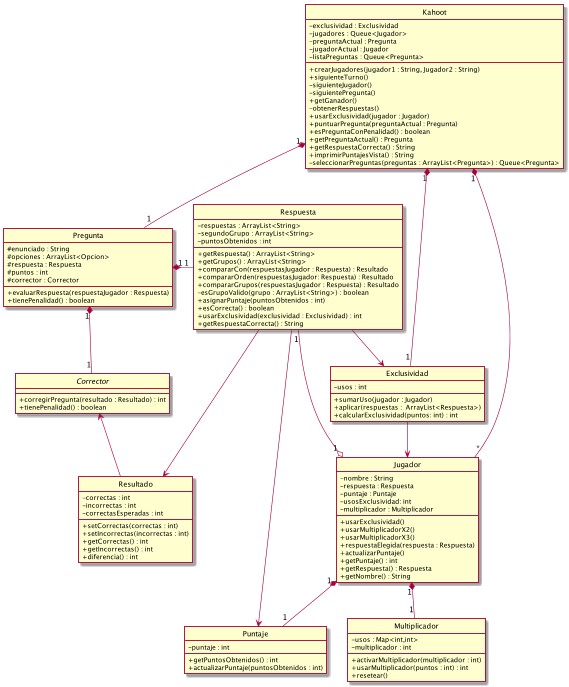
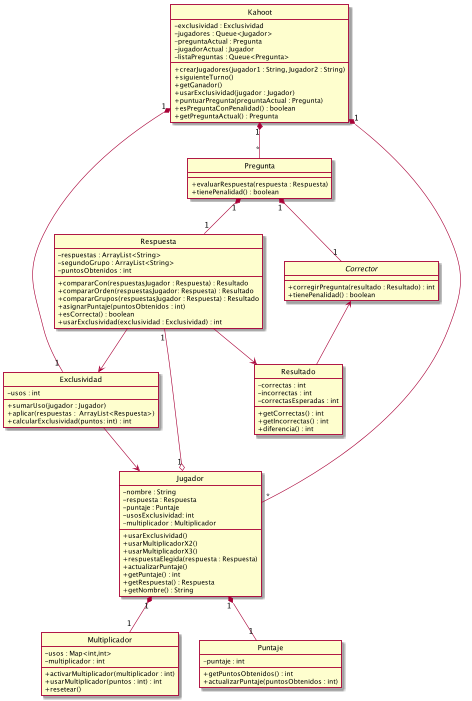
docs Corrijo diagrama Clases y agrego contorno al presionar grupos

diff --git a/src/main/java/edu/fiuba/algo3/Controladores/ControladorPregunta.java b/src/main/java/edu/fiuba/algo3/Controladores/ControladorPregunta.java
@@ -15,6 +15,7 @@ public abstract class ControladorPregunta {
     protected ArrayList<String> opciones;
     protected Respuesta respuestaCorrecta;
     protected ArrayList<Button> botonesOpciones;
+    protected ArrayList<Button> botonesActivos = new ArrayList<>();
     protected Kahoot kahoot;
     protected ArrayList<String> respuestaJugador = new ArrayList<>();
 
@@ -30,7 +31,7 @@ public abstract class ControladorPregunta {
         }
         else {
             respuestaJugador.add(textoOpcion);
-            botonOpcion.setStyle("-fx-border-color: #5eba46; -fx-border-width: 5px;");
+            this.activarBoton(botonOpcion);
         }
     }
 
@@ -69,17 +70,36 @@ public abstract class ControladorPregunta {
         return respuesta;
     }
 
-    public void activarMultiplicadorx2() {
+    public void activarMultiplicadorx2(Button boton) {
+        if (this.tieneUtilizableActivo()){
+            Ventana.mostrarMensajeError("Error", "Ya tiene un multiplicador activo");
+            return;
+        }
         try {
             kahoot.getJugadorActual().activarMultiplicadorx2();
+            this.activarBoton(boton);
         } catch (NoTieneMultiplicadorException e) {
             Ventana.mostrarMensajeError("Error", "La cagaste y no tienes multiplicador");
         }
     }
 
-    public void activarMultiplicadorx3() {
+    private boolean tieneUtilizableActivo() {
+        return !this.botonesActivos.isEmpty();
+    }
+
+    public void activarBoton(Button boton) {
+        this.botonesActivos.add(boton);
+        boton.setStyle("-fx-border-color: #5eba46; -fx-border-width: 2px;");
+    }
+
+    public void activarMultiplicadorx3(Button boton) {
+        if (this.tieneUtilizableActivo()){
+            Ventana.mostrarMensajeError("Error", "Ya tiene un multiplicador activo");
+            return;
+        }
         try {
             kahoot.getJugadorActual().activarMultiplicadorx3();
+            this.activarBoton(boton);
         } catch (NoTieneMultiplicadorException e) {
             Ventana.mostrarMensajeError("Error", "La cagaste y no tienes multiplicador");
 
@@ -87,9 +107,15 @@ public abstract class ControladorPregunta {
         }
     }
 
-    public void activarExclusividad(){
+
+    public void activarExclusividad(Button boton){
+        if (this.tieneUtilizableActivo()){
+            Ventana.mostrarMensajeError("Error", "Ya tiene exclusividad activo");
+            return;
+        }
         try {
             kahoot.usarExclusividad(kahoot.getJugadorActual());
+            this.activarBoton(boton);
         } catch (NoTieneExclusividadException e) {
             Ventana.mostrarMensajeError("Error", "La cagaste y no tienes exclusividad");
             //e.printStackTrace();
@@ -100,11 +126,19 @@ public abstract class ControladorPregunta {
         return kahoot.esPreguntaConPenalidad();
     }
 
-    public void setGrupo(String text){
+    public void setGrupo(Button botonGrupo){
         System.out.println("Setee grupo"); //TODO borrar esto despues, es para debuguear
+    }
+    public void refrescarOpciones(){
+        this.botonesOpciones.forEach(b -> b.setStyle(""));
+    }
+
+    public void refrescarUtilizables(){
+        this.botonesActivos.forEach(b -> b.setStyle(""));
     }
 
     public void refrescarBotones(){
-        this.botonesOpciones.forEach(b -> b.setStyle(""));
+        this.refrescarOpciones();
+        this.refrescarUtilizables();
     }
 }

diff --git a/src/main/java/edu/fiuba/algo3/Vistas/VistaPregunta.java b/src/main/java/edu/fiuba/algo3/Vistas/VistaPregunta.java
@@ -20,7 +20,6 @@ import java.util.ArrayList;
 import java.util.Collections;
 
 public class VistaPregunta extends VBox {
-    private String respuesta;
 
     public VistaPregunta(ControladorPregunta controladorPregunta) {
 
@@ -73,22 +72,22 @@ public class VistaPregunta extends VBox {
 
         //Seteo acciones de los botones especiales
         botonGrupo1.setOnAction(e ->{
-            controladorPregunta.setGrupo(botonGrupo1.getText());
+            controladorPregunta.setGrupo(botonGrupo1);
         });
 
         botonGrupo2.setOnAction(e ->{
-            controladorPregunta.setGrupo(botonGrupo2.getText());
+            controladorPregunta.setGrupo(botonGrupo2);
         });
 
         botonMultiplicadorx2.setOnAction(e ->{
-            controladorPregunta.activarMultiplicadorx2();
+            controladorPregunta.activarMultiplicadorx2(botonMultiplicadorx2);
         });
         botonMultiplicadorx3.setOnAction(e ->{
-            controladorPregunta.activarMultiplicadorx3();
+            controladorPregunta.activarMultiplicadorx3(botonMultiplicadorx3);
         });
 
         botonExclusividad.setOnAction(e ->{
-            controladorPregunta.activarExclusividad();
+            controladorPregunta.activarExclusividad(botonExclusividad);
         });
 
         HBox botonera = new HBox(botonExclusividad,botonMultiplicadorx2,botonMultiplicadorx3, botonGrupo1, botonGrupo2);
@@ -104,11 +103,5 @@ public class VistaPregunta extends VBox {
         botonExclusividad.setVisible(!controladorPregunta.esPreguntaConPenalidad());
 
         this.getChildren().addAll(stack,opciones,botonera);
-    }
-
-    public ArrayList<String> getRespuesta(){
-        ArrayList<String> respuestas = new ArrayList<String>();
-        respuestas.add(respuesta);
-        return respuestas;
     }
 }

diff --git a/src/main/java/edu/fiuba/algo3/Controladores/ControladorGroupChoice.java b/src/main/java/edu/fiuba/algo3/Controladores/ControladorGroupChoice.java
@@ -2,6 +2,7 @@ package edu.fiuba.algo3.Controladores;
 
 import edu.fiuba.algo3.modelo.Kahoot;
 import edu.fiuba.algo3.modelo.correcciones.Respuesta;
+import javafx.scene.control.Button;
 
 import java.util.ArrayList;
 
@@ -16,7 +17,18 @@ public class ControladorGroupChoice extends ControladorPregunta {
     }
 
     @Override
-    public void setGrupo(String textGrupo){
+    public void setGrupo(Button botonGrupo){
+        if (this.botonesActivos.contains(botonGrupo)){
+            botonGrupo.setStyle("");
+            this.botonesActivos.remove(botonGrupo);
+        }else{
+            this.activarBoton(botonGrupo);
+        }
+        this.establecerGrupo(botonGrupo.getText());
+        this.refrescarOpciones();
+    }
+
+    private void establecerGrupo(String textGrupo){
         switch (textGrupo){
             case GRUPO_1:
                 this.grupo1 = new ArrayList<>(this.respuestaJugador);
@@ -27,7 +39,6 @@ public class ControladorGroupChoice extends ControladorPregunta {
                 this.respuestaJugador.clear();
                 break;
         }
-        this.refrescarBotones();
     }
 
     @Override
